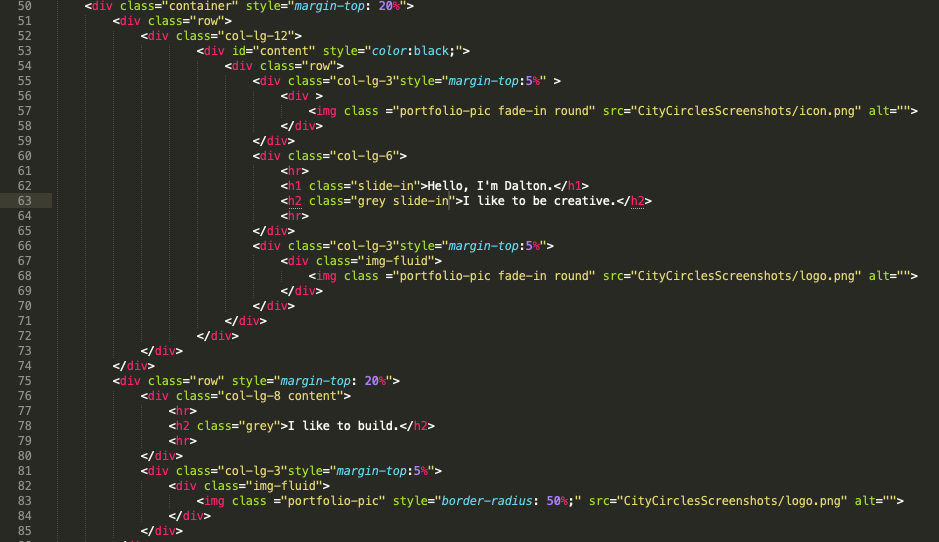
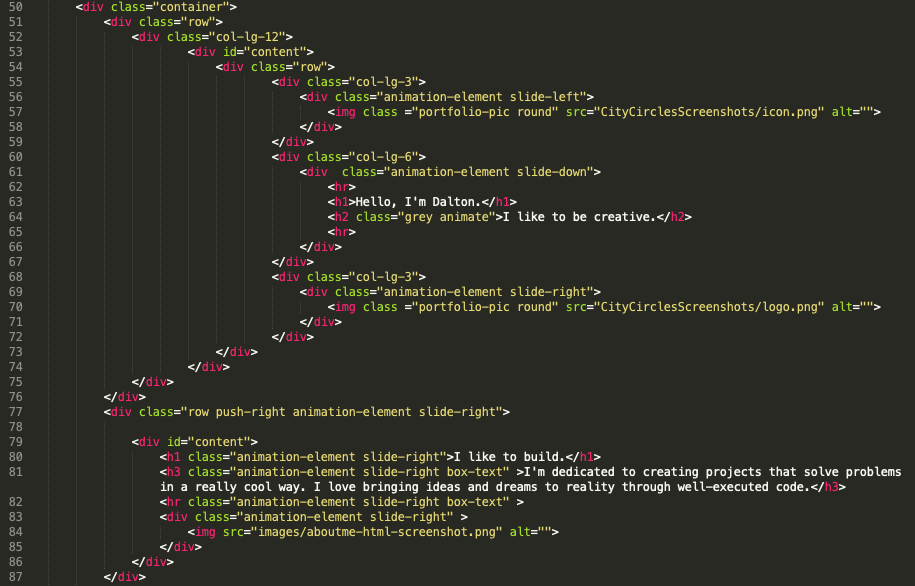
Completed about me, preparing to host pages

Changed region(s): [[0.0918, 0.0, 1.0, 1.0], [0.0, 0.0, 0.0306, 1.0]]

diff --git a/aboutme.html b/aboutme.html
@@ -33,9 +33,9 @@
 			          Portfolio
 			        </a>
 			        <div class="dropdown-menu" aria-labelledby="navbarDropdown">
-			          <a class="dropdown-item" href="portfolio.html">All</a>
-			          <a class="dropdown-item" href="portfolio.html">Web</a>
-			          <a class="dropdown-item" href="portfolio.html">Mobile</a>
+			          <a class="dropdown-item" href="portfolio.html?filter=all">All</a>
+			          <a class="dropdown-item" href="portfolio.html?filter=web">Web</a>
+			          <a class="dropdown-item" href="portfolio.html?filter=mobile">Mobile</a>
 			        </div>
 			      </li>
 			    </ul>
@@ -76,27 +76,73 @@
 		</div>
 		<div class="row push-right animation-element slide-right">
 
-			<div id="content" style="background-color: white; height: 900px;margin-top: 20%">
-				<h1 class="animation-element slide-right" style="color: grey;margin-top: 10%;">I like to build.</h1>
+			<div id="content" style="background-color: white; height: 800px;margin-top: 20%">
+				<h1 class="animation-element slide-right" style="color: grey;margin-top: 8%;">I like to build.</h1>
 				<h3 class="animation-element slide-right box-text" >I'm dedicated to creating projects that solve problems in a really cool way. I love bringing ideas and dreams to reality through well-executed code.</h3>
-				<hr class="animation-element slide-right" >
+				<hr class="animation-element slide-right box-text" >
 				<div class="animation-element slide-right" >
-					<img style="max-height: 50%; max-width: 80%" src="images/aboutme-html-screenshot.png" alt="">
+					<img style="margin-top:5%; max-height: 40%; max-width: 60%" src="images/aboutme-html-screenshot.png" alt="">
 				</div>
 			</div>
 		</div>
+
 		
-		<div class="row" style="margin-top: 20%">
-			<div class="col-lg-3"style="margin-top:5%">
-				<div class="img-fluid">
-					<img class ="portfolio-pic" style="border-radius: 50%;" src="CityCirclesScreenshots/logo.png" alt="">
+		<div class="row" style="margin-top: 10%">
+			<div class="col-lg-6 col-md-12">
+				<div class="img-fluid animation-element slide-left">
+					<img style="max-height:80%;max-width: 80%" src="images/whiteboard.jpeg" alt="">
 				</div>
 			</div>
-			<div class="col-lg-8 content">
-				<hr>
-				<h2 class="grey">I like to push the limit.</h2>
-				<hr>
+
+			<div class="col-lg-1 col-md-0"></div>
+
+			<div class="col-lg-5 col-md-12 row-lg-12">
+				<div class="row push-right animation-element slide-right">
+
+					<div  class="square" style="margin-bottom: 20%"></div>
+
+					<div id="content" style="color:black">
+						<h1>I like to push the limit.</h1>
+						<h4>I prefer to think outside the box. If I know something could be done differently, or be made more interesting, I am not going to settle with a hacky, unelegant solution.</h4>
+						
+					</div>
+
+					<div  class="square" style="margin-top: 20%"></div>
+
+				</div>
+
+
 			</div>
+			
+		</div>
+
+		<div class="row animation-element slide-up" style="margin-top: 1%">
+
+			<div class="row">
+				<div class="col-lg-12 col-md-12">
+					<div class="row push-right animation-element slide-left">
+
+						<div class="fill" id="content" style="background-color: white;display: block;height: 700px">
+							<h1 style="color: grey;margin-top: 10%">Who I am.</h1>
+							<h3 style="font-size:120%" class="box-text">I'm a full stack developer on web and mobile platforms and a 2020 graduate from North Carolina State University (Go Pack!). I know my way around a few languages, including:</h3>
+							<hr class="box-text">
+							<ul class="center-list">
+								<li>HTML/CSS and JS</li>
+								<li>Java</li>
+								<li>Swift</li>
+								<li>C/C++</li>
+								<li>Python</li>
+							</ul>
+							<hr class="box-text">
+							<h3 style="font-size:120%" class="box-text">I like to keep myself busy with projects that test my coding ability and further my understanding of some of the more popular frameworks and development processes. If you haven't already, feel free to check out my current portfolio up top, and my Github with my in-process project development here!</h3>
+							<hr>
+							<button class="btn btn-dark btn-lg"><a href="https://github.com/daltonteague" class="btn btn-dark btn-lg">Github</a></button>
+								
+						</div>
+					</div>
+				</div>
+			</div>
+			
 		</div>
 	</div>
 

diff --git a/portfolio.html b/portfolio.html
@@ -32,9 +32,9 @@
 			          Portfolio
 			        </a>
 			        <div class="dropdown-menu" aria-labelledby="navbarDropdown">
-			          <a class="dropdown-item" href="#">All</a>
-			          <a class="dropdown-item" href="#">Web</a>
-			          <a class="dropdown-item" href="#">Mobile</a>
+			          <a class="dropdown-item" href="portfolio.html?filter=all">All</a>
+			          <a class="dropdown-item" href="portfolio.html?filter=web">Web</a>
+			          <a class="dropdown-item" href="portfolio.html?filter=mobile">Mobile</a>
 			        </div>
 			      </li>
 			    </ul>
@@ -53,18 +53,18 @@
 			</div>
 			<div class="filter-button" onChange="filter(this)">
         		<div class="dropdown">
-				  <button onclick="filter()" class="btn btn-secondary dropdown-toggle" type="button" id="dropdownMenuButton" data-toggle="dropdown" aria-haspopup="true" aria-expanded="false" ng-model="filter">Filter</button>
+				  <button onclick="filter()" class="btn btn-secondary dropdown-toggle filter-text" type="button" id="dropdownMenuButton" data-toggle="dropdown" aria-haspopup="true" aria-expanded="false" ng-model="filter">Filter</button>
 
-				  <div id="myDropdown" class="dropdown-menu" aria-labelledby="dropdownMenuButton">
-				    <a class="dropdown-item" href="#" onClick="filter(this.text)">All</a>
-				    <a class="dropdown-item" href="#" onClick="filter(this.text)">Web</a>
-				    <a class="dropdown-item" href="#" onClick="filter(this.text)">Mobile</a>
+				  <div id="filterDropdown" class="dropdown-menu" aria-labelledby="dropdownMenuButton">
+				    <a id="all" class="dropdown-item" href="#" onClick="filter(this.id)">All</a>
+				    <a id="web" class="dropdown-item" href="#" onClick="filter(this.id)">Web</a>
+				    <a id="mobile" class="dropdown-item" href="#" onClick="filter(this.id)">Mobile</a>
 				  </div>
 				</div>
 			</div>
 			
 		</div>
-		<div class="row animation-element slide-left">
+		<div class="row animation-element slide-left" style="margin-bottom: 10%">
 			<div class="col-lg-4 col-md-6 row-lg-12 mobile">
 				<div id="content">
 					<button class="btn btn-dark btn-md">
@@ -103,9 +103,9 @@
 			<div class="col-lg-4 col-md-6 row-lg-12 web">
 				<div id="content mobile">
 					<button class="btn btn-dark btn-md">
-						<a href="landing.html"class="btn btn-dark btn-md">
+						<a href="https://github.com/daltonteague/PortfolioWebsite"class="btn btn-dark btn-md">
 							<h2 class="grey">Portfolio Site</h2>
-							<h4>Spacer Sprint is an endless runner iOS app made in Unity from scratch, including scripts, animations and sprites.</h4>
+							<h4>This webpage was created with HTML/CSS, Javascript, Bootstrap, and JQuery. Check out the repo here!</h4>
 							<hr>
 						</a>
 					</button>
@@ -120,11 +120,28 @@
 		</div>
 	</div>
 
-
+ 
 	<script src="https://code.jquery.com/jquery-3.3.1.slim.min.js" integrity="sha384-q8i/X+965DzO0rT7abK41JStQIAqVgRVzpbzo5smXKp4YfRvH+8abtTE1Pi6jizo" crossorigin="anonymous"></script>
 	<script src="https://cdnjs.cloudflare.com/ajax/libs/popper.js/1.14.7/umd/popper.min.js" integrity="sha384-UO2eT0CpHqdSJQ6hJty5KVphtPhzWj9WO1clHTMGa3JDZwrnQq4sF86dIHNDz0W1" crossorigin="anonymous"></script>
-	<script src="https://stackpath.bootstrapcdn.com/bootstrap/4.3.1/js/bootstrap.min.js" integrity="sha384-JjSmVgyd0p3pXB1rRibZUAYoIIy6OrQ6VrjIEaFf/nJGzIxFDsf4x0xIM+B07jRM" crossorigin="anonymous"></script>  
+	<script src="https://stackpath.bootstrapcdn.com/bootstrap/4.3.1/js/bootstrap.min.js" integrity="sha384-JjSmVgyd0p3pXB1rRibZUAYoIIy6OrQ6VrjIEaFf/nJGzIxFDsf4x0xIM+B07jRM" crossorigin="anonymous"></script> 
   	<script type="text/javascript" src="script.js"></script>
+
+	<script type="text/javascript">
+		var parts = window.location.href.replace(/[?&]+([^=&]+)=([^&]*)/gi, function(m,key,value) {
+	        value = filter(value);
+	        console.log( document.getElementsByClassName("filter-text"));
+	       
+			$(".filter-text").text(value);
+	    });
+
+	    $(".dropdown-menu a").click(function(){
+	    
+			$(".filter-text").text($(this).text());
+		    // $(".btn:first-child").val($(this).text());
+		});
+	</script>
+
+
 
 </body>
 </html>

diff --git a/script.js b/script.js
@@ -19,9 +19,7 @@ $(document).ready(function() {
 	    if ((element_bottom_position >= window_top_position) &&
 	        (element_top_position <= window_bottom_position)) {
 	      $element.addClass('in-view');
-	    } else {
-	      $element.removeClass('in-view');
-	    }
+	    } 
 	  });
 	}
 
@@ -36,7 +34,7 @@ function filter(sel) {
 	var mobileProjects = document.querySelectorAll(".mobile");
 	var select = document.getElementsByClassName("filter-button");
 
-	if (sel === "Mobile") {
+	if (sel === "mobile") {
 			console.log("mobile");
 		for (i = 0; i < webProjects.length; i++) {
 			webProjects[i].style.display = "none"
@@ -44,7 +42,8 @@ function filter(sel) {
 		for (i = 0; i < mobileProjects.length; i++) {
 			mobileProjects[i].style.display = "block"
 		}
-	} else if (sel === "Web") {
+		return "Mobile"
+	} else if (sel === "web") {
 			console.log("web");
 		for (i = 0; i < webProjects.length; i++) {
 			webProjects[i].style.display = "block"
@@ -52,7 +51,8 @@ function filter(sel) {
 		for (i = 0; i < mobileProjects.length; i++) {
 			mobileProjects[i].style.display = "none"
 		}
-	} else  if (sel === "All") {
+		return "Web"
+	} else  if (sel === "all") {
 			console.log("all");
 		for (i = 0; i < webProjects.length; i++) {
 			webProjects[i].style.display = "block"
@@ -60,5 +60,6 @@ function filter(sel) {
 		for (i = 0; i < mobileProjects.length; i++) {
 			mobileProjects[i].style.display = "block"
 		}
+		return "All"
 	}
 }

diff --git a/citycircles.html b/citycircles.html
@@ -36,9 +36,9 @@
 			          Portfolio
 			        </a>
 			        <div class="dropdown-menu" aria-labelledby="navbarDropdown">
-			          <a class="dropdown-item" href="portfolio.html">All</a>
-			          <a class="dropdown-item" href="portfolio.html">Web</a>
-			          <a class="dropdown-item" href="portfolio.html">Mobile</a>
+			          <a class="dropdown-item" href="portfolio.html?filter=all">All</a>
+			          <a class="dropdown-item" href="portfolio.html?filter=web">Web</a>
+			          <a class="dropdown-item" href="portfolio.html?filter=mobile">Mobile</a>
 			        </div>
 			      </li>
 			    </ul>
@@ -81,7 +81,7 @@
 						<h1>Local. Easy.</h1>
 						<h4>City Circles is a location-based group chat app for iOS in which you can easily see what events are going on in town and discuss them with other people in the area.</h4>
 						<hr>
-						<button class="btn btn-dark btn-lg"><a href="https://github.com/daltonteague/CityCircles" class="btn btn-dark btn-lg">Github</a></button>
+						<button class="btn btn-dark btn-lg"><a href="https://github.com/daltonteague/CityCircles" class="btn btn-dark btn-lg sub-black">Github</a></button>
 						
 					</div>
 
@@ -204,11 +204,8 @@
 		</div>
 
 
-
 	</div>
 
-			
-		
 	</div>
 
 

diff --git a/spacersprint.html b/spacersprint.html
@@ -53,9 +53,14 @@
 	<div class="container" style="margin-top: 10%">
 		<div class="row animation-element slide-left">
 
-			<div id="content" class="col-lg-12">
+			<div class="col-lg-3"style="margin-top:4%"></div>
+			<div id="content" class="col-lg-6 animation-element slide-left">
 				<h1 style="color: black">Spacer Sprint</h1>
-
+			</div>
+			<div class="col-lg-3">
+				<div class="animation-element slide-right">
+					<img class ="portfolio-pic round" src="CityCirclesScreenshots/icon.png" alt="">
+				</div>
 			<hr>
 			</div>
 
@@ -77,7 +82,7 @@
 						<h1>Endless Fun.</h1>
 						<h4>Spacer Sprint is an endless runner on the iOS App Store created in Unity and scripted in C#.</h4>
 						<hr>
-						<button class="btn btn-dark btn-lg"><a href="https://apps.apple.com/gy/app/spacer-sprint/id1333899259#?platform=iphone" class="btn btn-dark btn-lg">App Store</a></button>
+						<button class="btn btn-dark btn-lg"><a href="https://apps.apple.com/gy/app/spacer-sprint/id1333899259#?platform=iphone" class="btn btn-dark btn-lg sub-black">App Store</a></button>
 						
 					</div>
 

diff --git a/landing.html b/landing.html
@@ -36,9 +36,9 @@
 			          Portfolio
 			        </a>
 			        <div class="dropdown-menu" aria-labelledby="navbarDropdown">
-			          <a class="dropdown-item" href="portfolio.html">All</a>
-			          <a class="dropdown-item" href="portfolio.html">Web</a>
-			          <a class="dropdown-item" href="portfolio.html">Mobile</a>
+			          <a class="dropdown-item" href="portfolio.html?filter=all">All</a>
+			          <a class="dropdown-item" href="portfolio.html?filter=web">Web</a>
+			          <a class="dropdown-item" href="portfolio.html?filter=mobile">Mobile</a>
 			        </div>
 			      </li>
 			    </ul>
@@ -61,7 +61,7 @@
 						<h1>Hello there!</h1>
 						<h4>I'm a mobile and web app developer, and here you can learn more about me and check out some of my projects!</h4>
 						<hr>
-						<button class="btn btn-dark btn-lg">Get Started</button>
+						<button class="btn btn-dark btn-lg sub-black">Get Started</button>
 						
 					</div>
 

diff --git a/style.css b/style.css
@@ -53,7 +53,7 @@
 
 body {
 	color: white;
-	background: rgb(54, 58, 65) !important;
+	background: #343a40 !important;
 	overflow: auto;
 }
 
@@ -88,6 +88,10 @@ body {
 	height: 650px;
 }
 
+.sub-black {
+	background-color: #111111 !important;
+}
+
 
 .main-text {
 	margin-left:auto;
@@ -99,6 +103,11 @@ body {
 .box-text {
 	margin-left:5%;
 	margin-right:5%;
+}
+
+.center-list {
+	display:table; 
+	margin:0 auto;
 }
 
 .filter-button {
